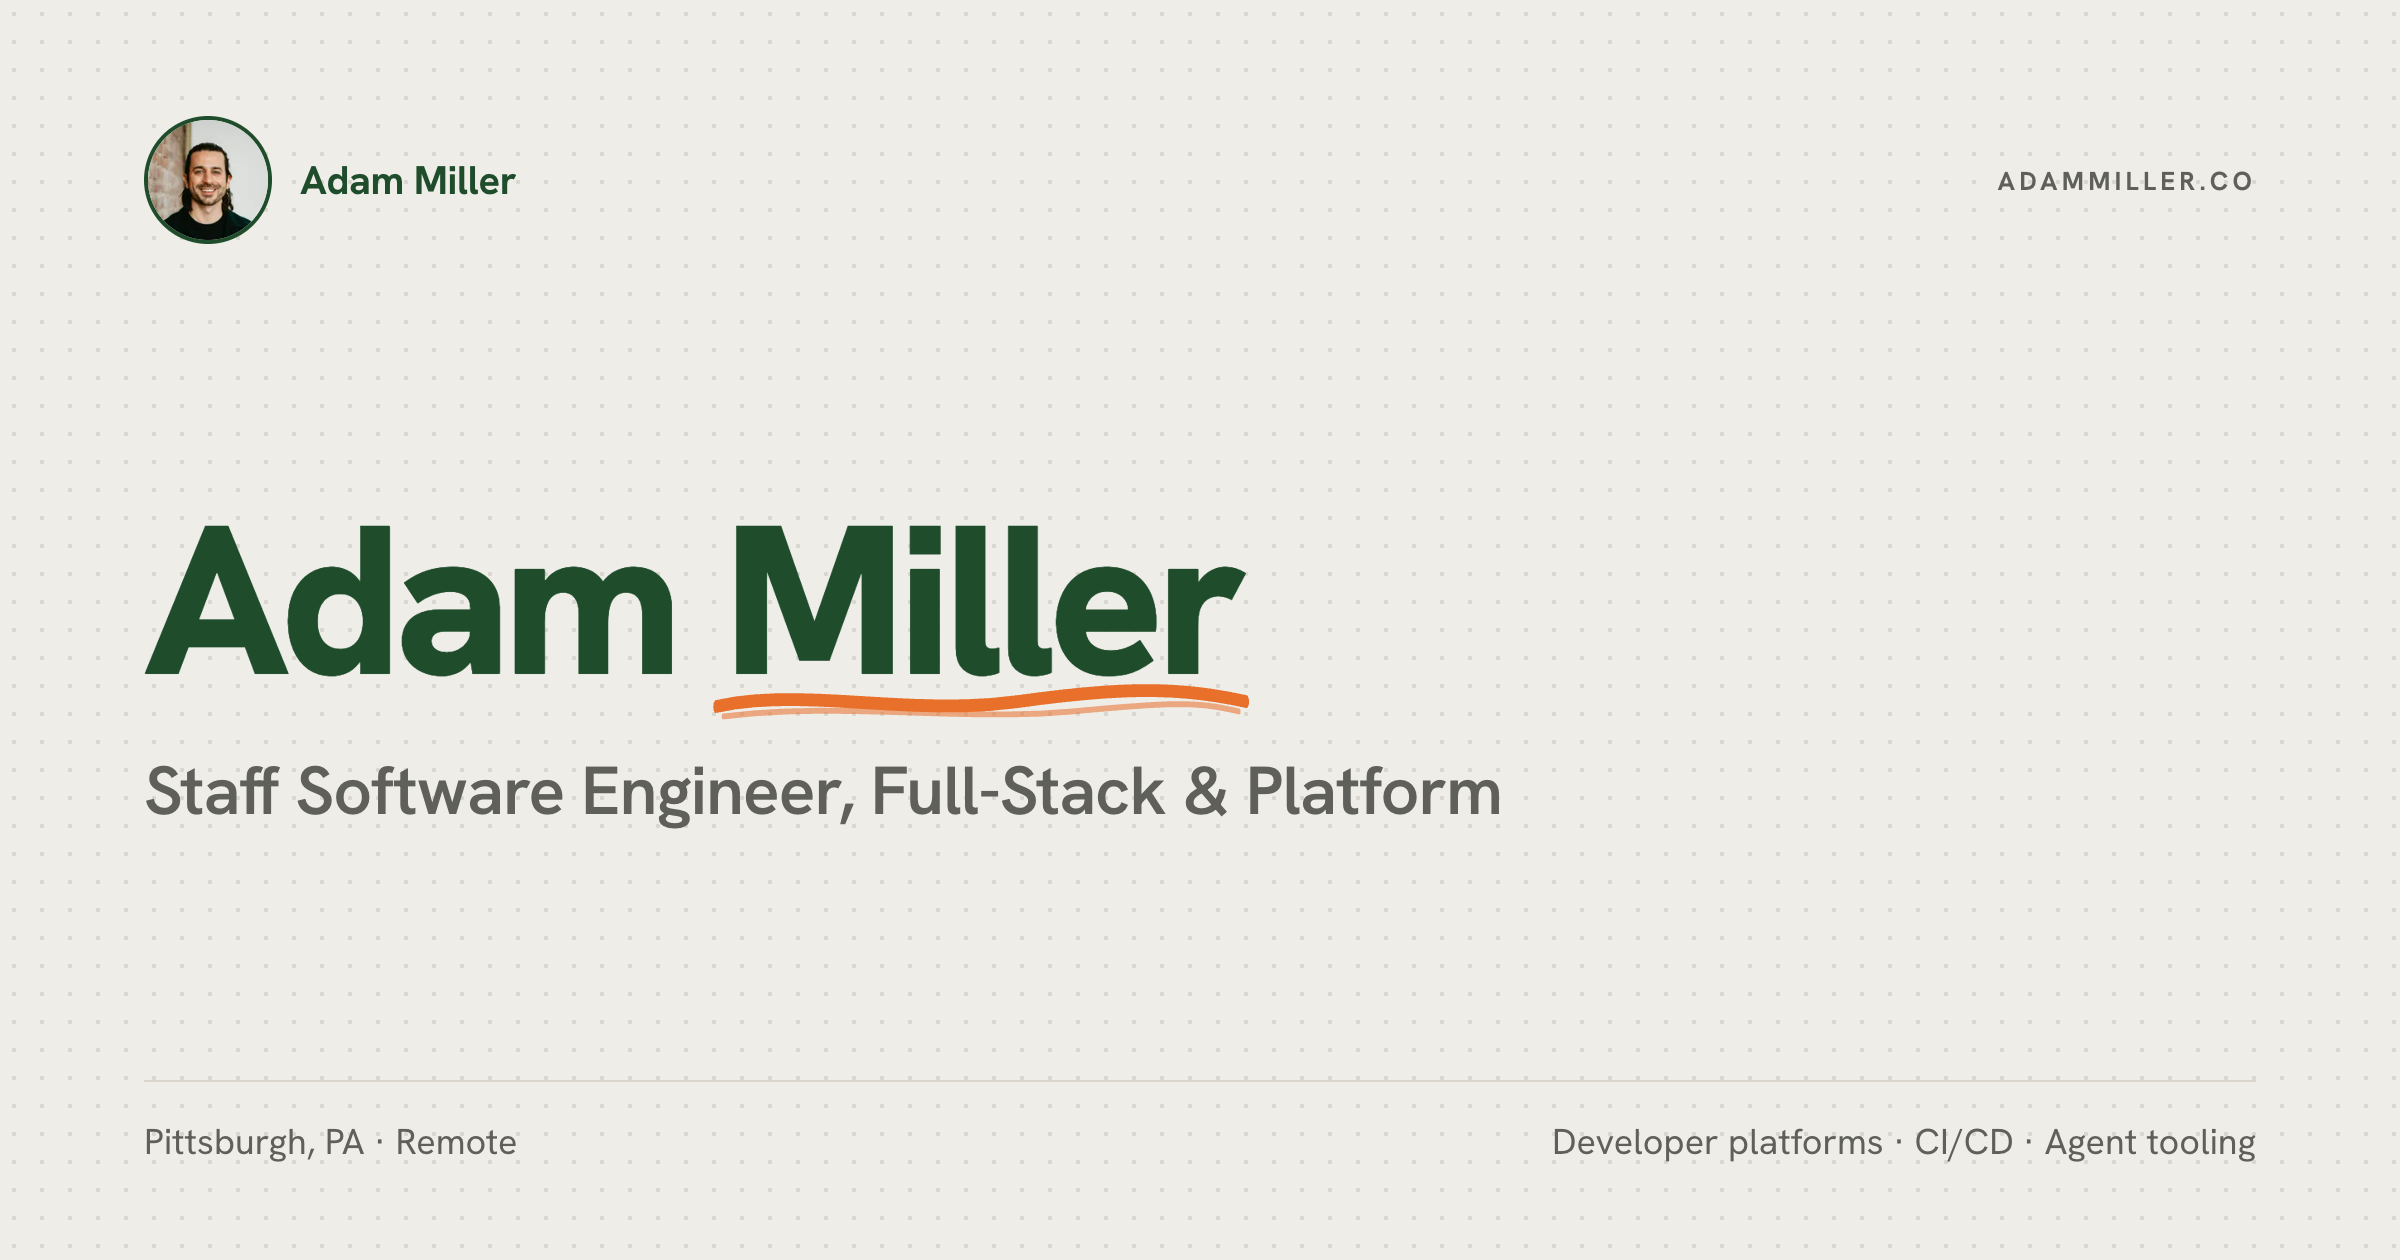
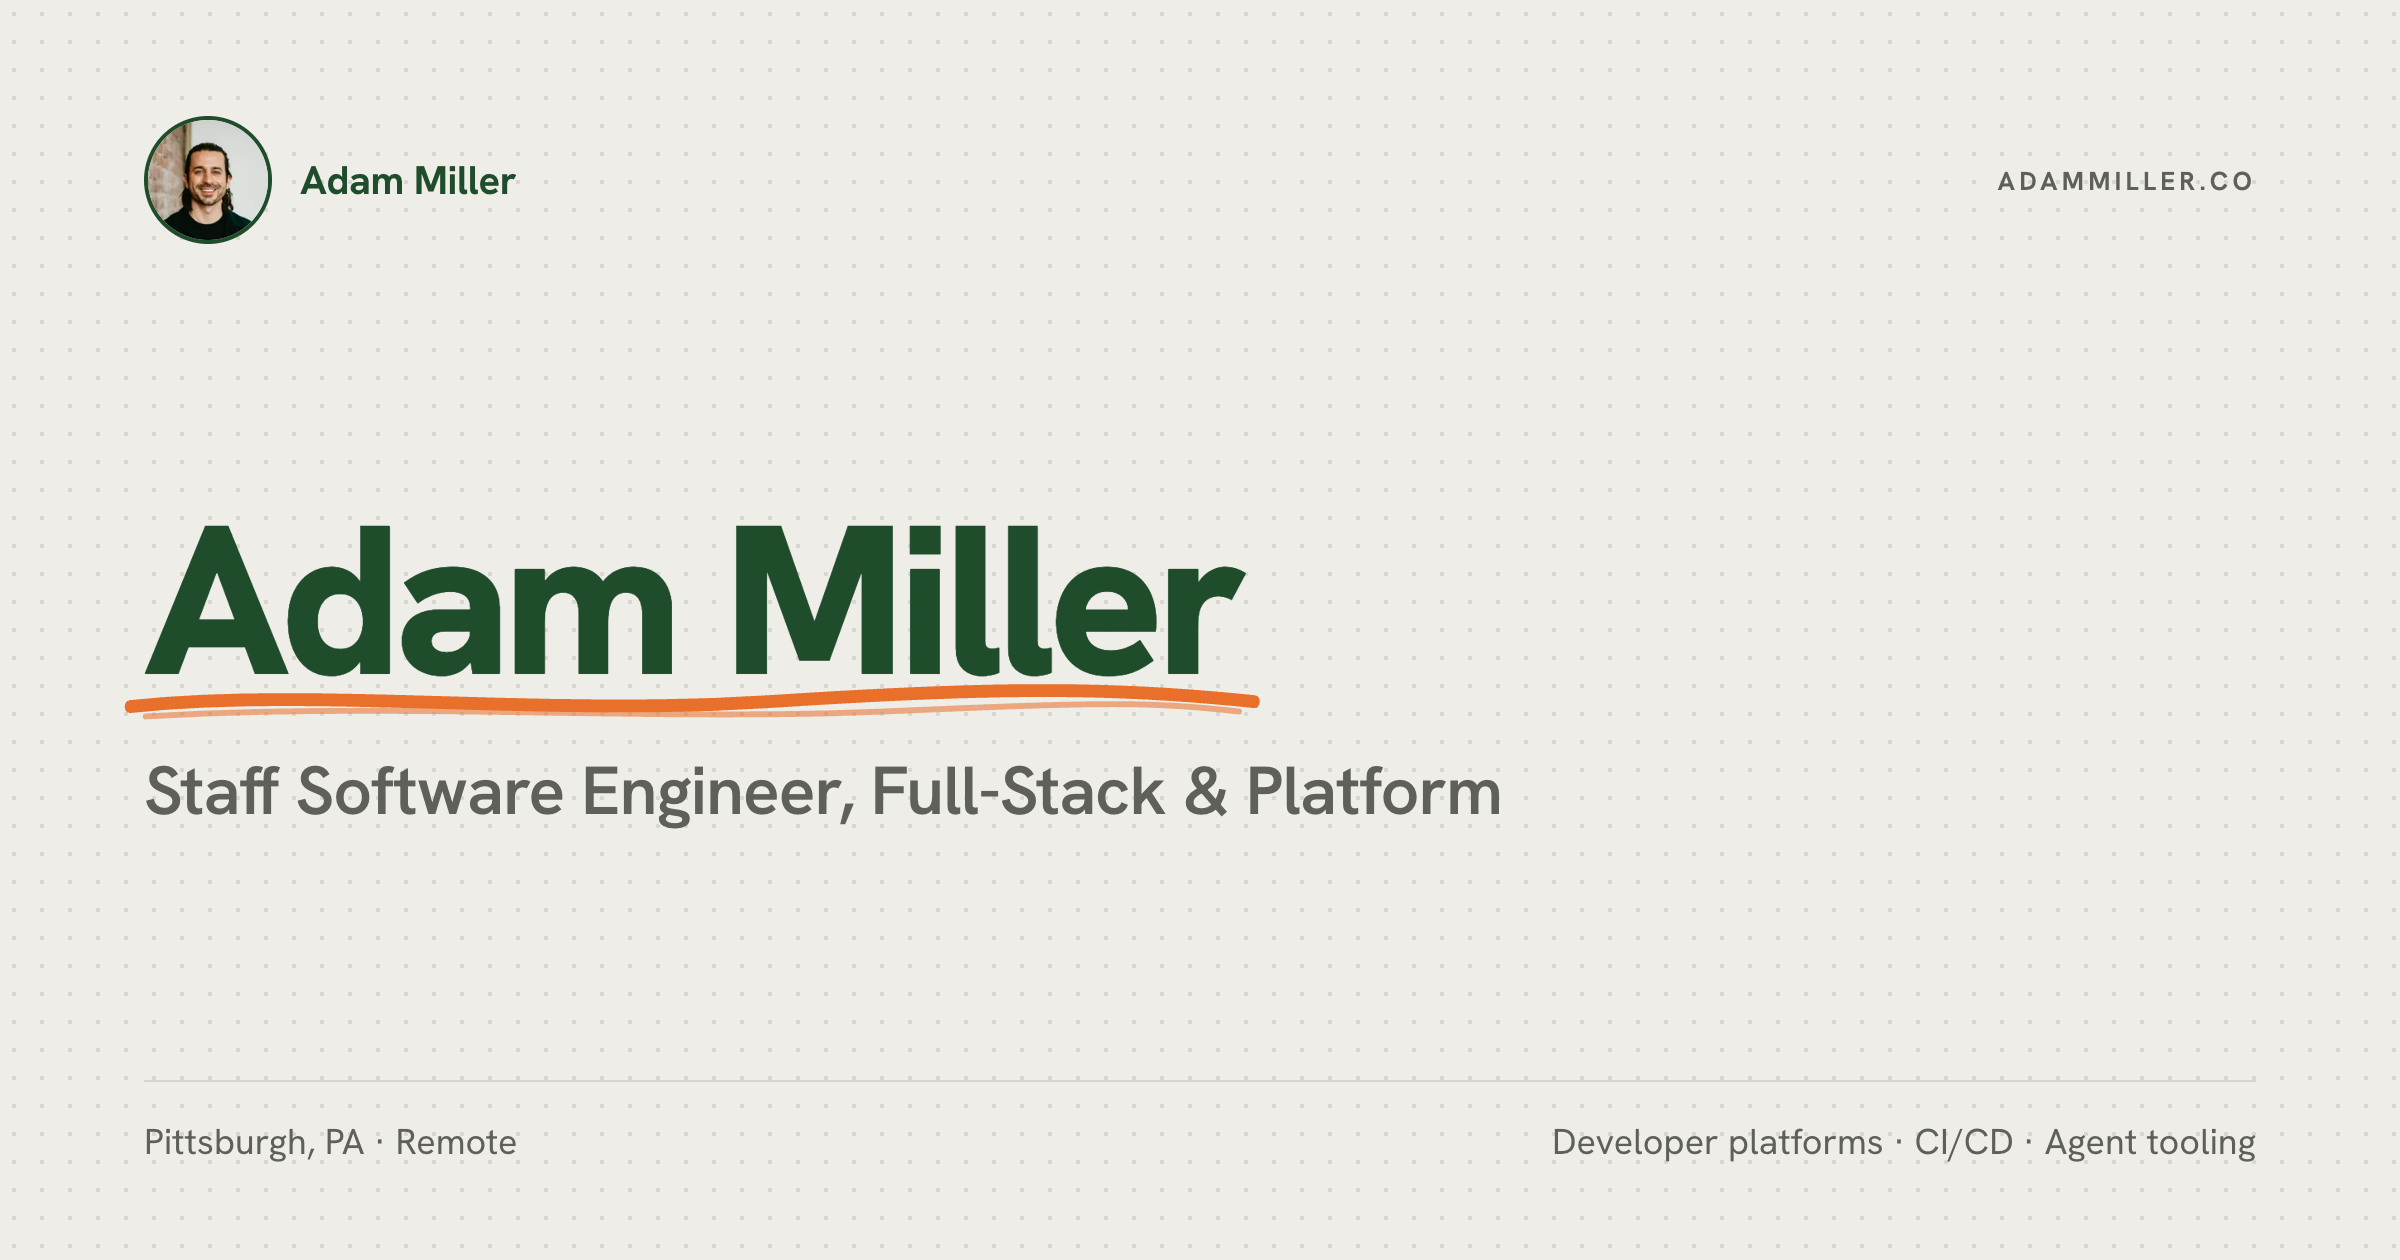
Refine the hero and frost the header on scroll
- Underline the full "Adam Miller" in the hero and the OG card.
- Update the Get in touch copy and make it the single primary hero
  action, dropping the "See selected work" button.
- Give the header an opaque top state and a 70% blurred surface once
  the page scrolls.

Changed region(s): [[0.0312, 0.5262, 0.5, 0.5881], [0.5, 0.5571, 0.5312, 0.5881]]

diff --git a/src/data/site.ts b/src/data/site.ts
@@ -29,7 +29,7 @@ export const SITE = {
 
   /** "Get in touch" closer on the home page. */
   closer:
-    "I'm looking for a Staff or Principal engineering role where I can make the engineers around me faster — platform, developer productivity, AI tooling or product engineering.",
+    "I'm looking for a high-impact engineering role where I can work on novel challenges with talented colleagues — platform, developer productivity, AI tooling or product engineering.",
 
   /** JSON-LD `knowsAbout`. */
   knowsAbout: [

diff --git a/src/styles/global.css b/src/styles/global.css
@@ -258,7 +258,16 @@ a:hover {
   top: 0;
   z-index: 50;
   border-bottom: 1px solid var(--line);
-  background: var(--paper);
+  background: var(--white);
+  backdrop-filter: blur(0);
+  transition:
+    background-color 0.2s var(--ease),
+    backdrop-filter 0.2s var(--ease);
+}
+
+.site-header.is-scrolled {
+  background: color-mix(in srgb, var(--white) 70%, transparent);
+  backdrop-filter: blur(12px);
 }
 
 .header-inner {

diff --git a/scripts/og-template.html b/scripts/og-template.html
@@ -146,7 +146,7 @@
 
     <div>
       <h1 class="name">
-        Adam <span class="scribble">Miller<svg
+        <span class="scribble">Adam Miller<svg
             viewBox="0 0 300 12"
             preserveAspectRatio="none"
             aria-hidden="true"
